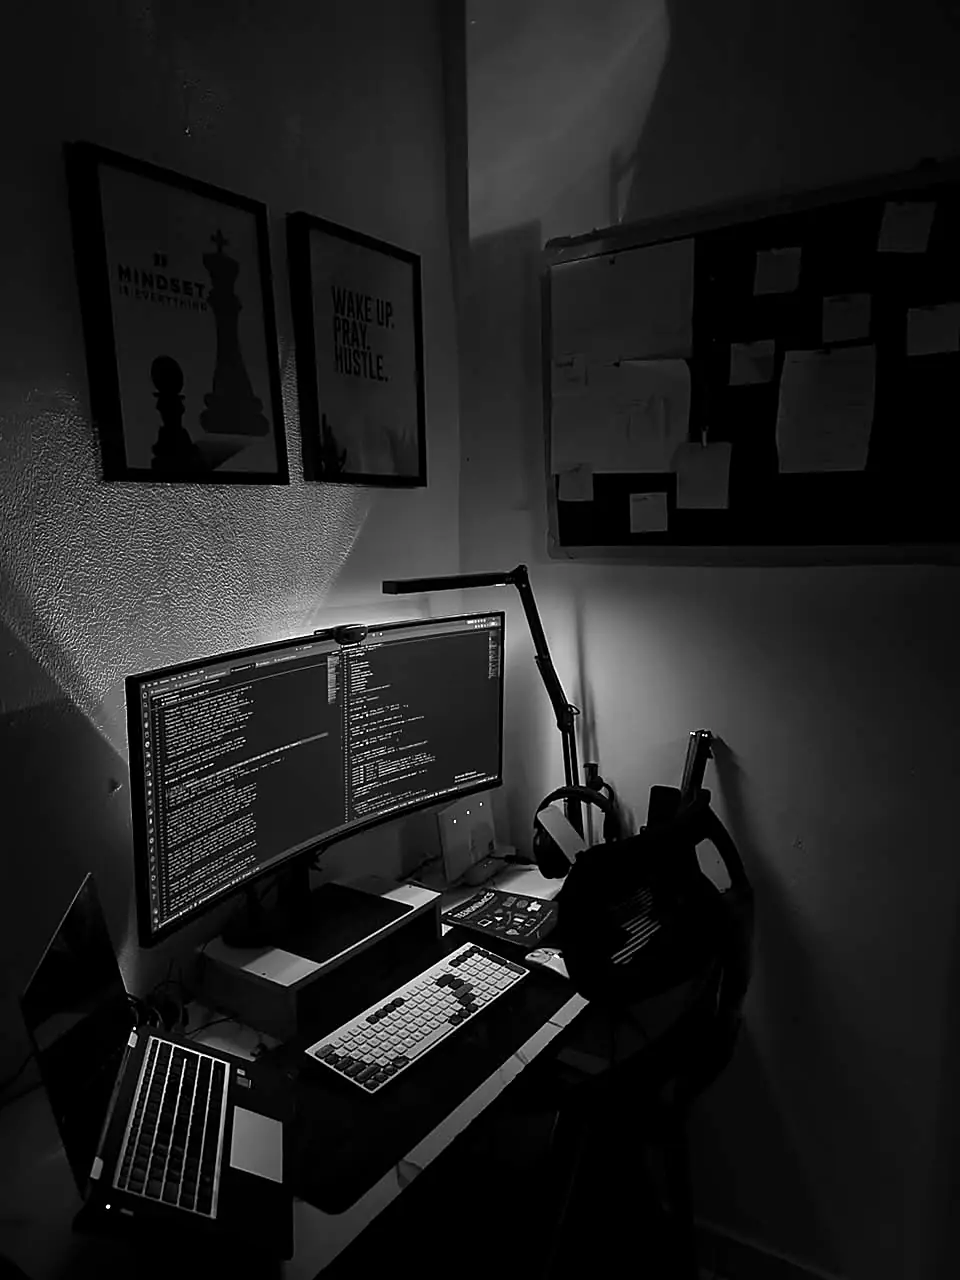
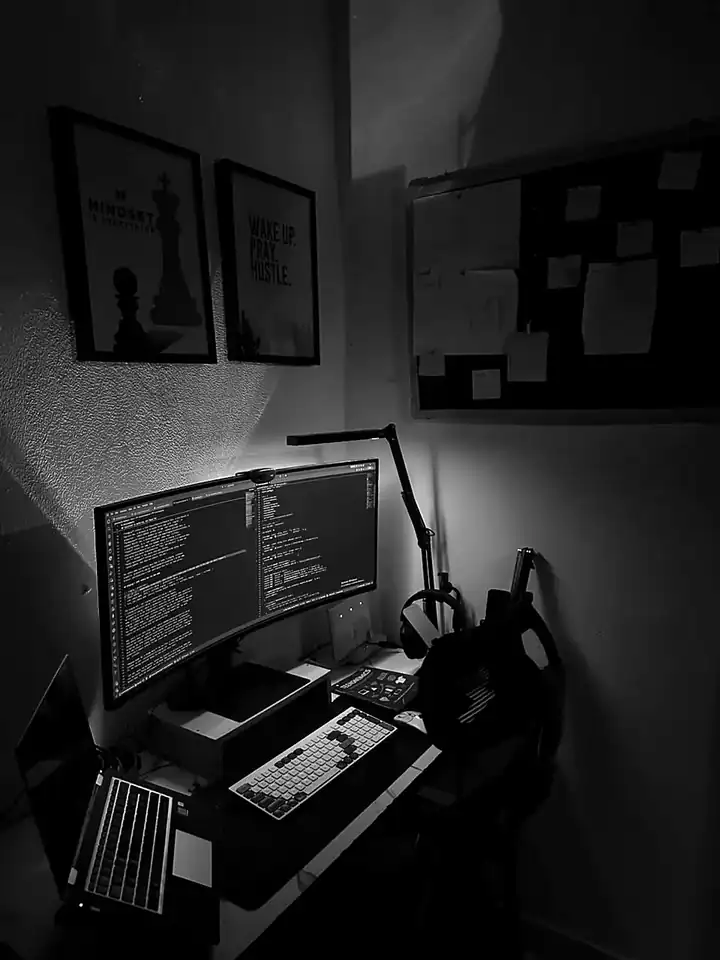
Shrink hero background photos and load the portrait first
Re-encode the desk background at a smaller size (mobile 65 KB -> 34 KB,
desktop 64 KB -> 39 KB); it is dimmed behind the text so the loss is not
visible. Mark it fetchpriority=low so phones spend bandwidth on the
portrait and text first.

diff --git a/src/components/Hero.jsx b/src/components/Hero.jsx
@@ -41,7 +41,7 @@ export default function Hero() {
             a tall screen showed only dark wall. */}
         <picture>
           <source media="(max-width: 1023px)" srcSet="/hero-bg-mobile.webp" />
-          <img src="/hero-bg.webp" alt="" aria-hidden="true" width="1600" height="1200" decoding="async" className="h-full w-full object-cover object-[30%_40%] max-lg:object-[center_35%]" />
+          <img src="/hero-bg.webp" alt="" aria-hidden="true" width="1280" height="960" fetchpriority="low" decoding="async" className="h-full w-full object-cover object-[30%_40%] max-lg:object-[center_35%]" />
         </picture>
       </div>
       {/* Darkens the photo behind the text so it stays readable. */}
